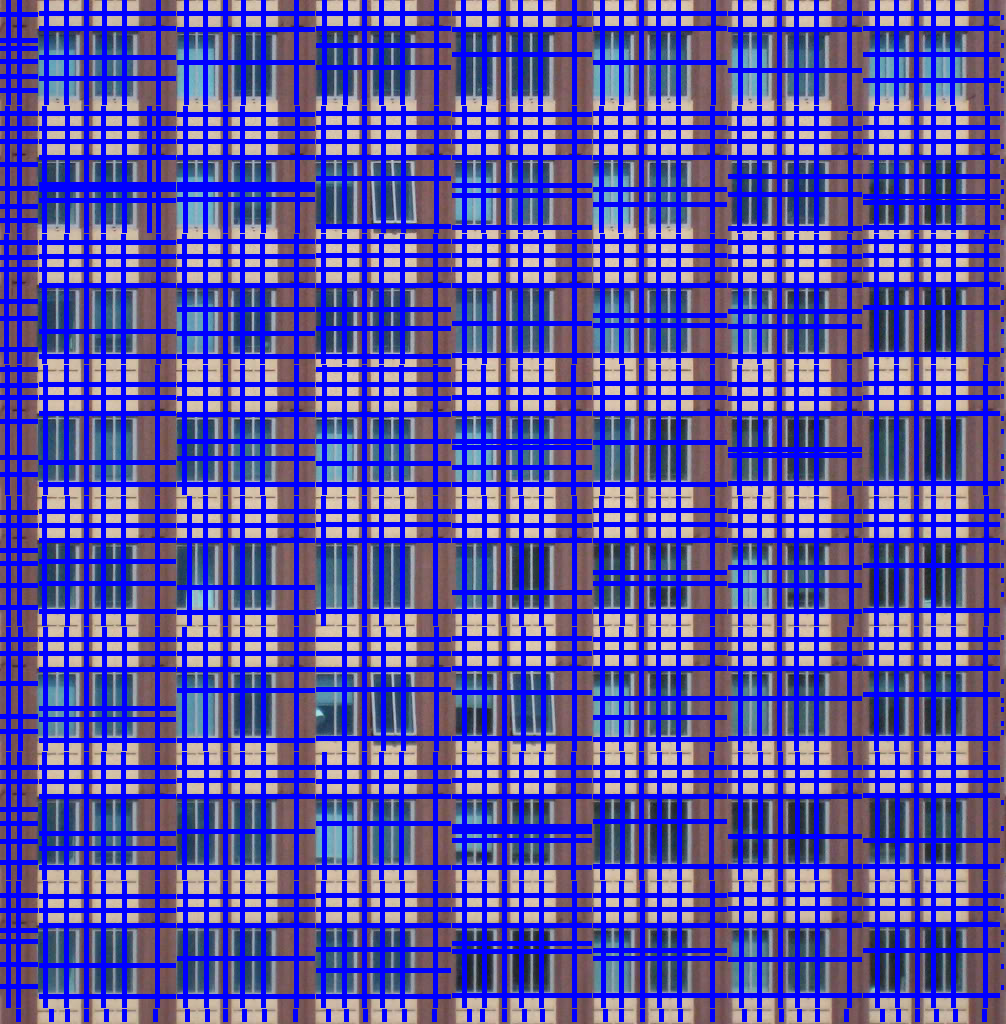
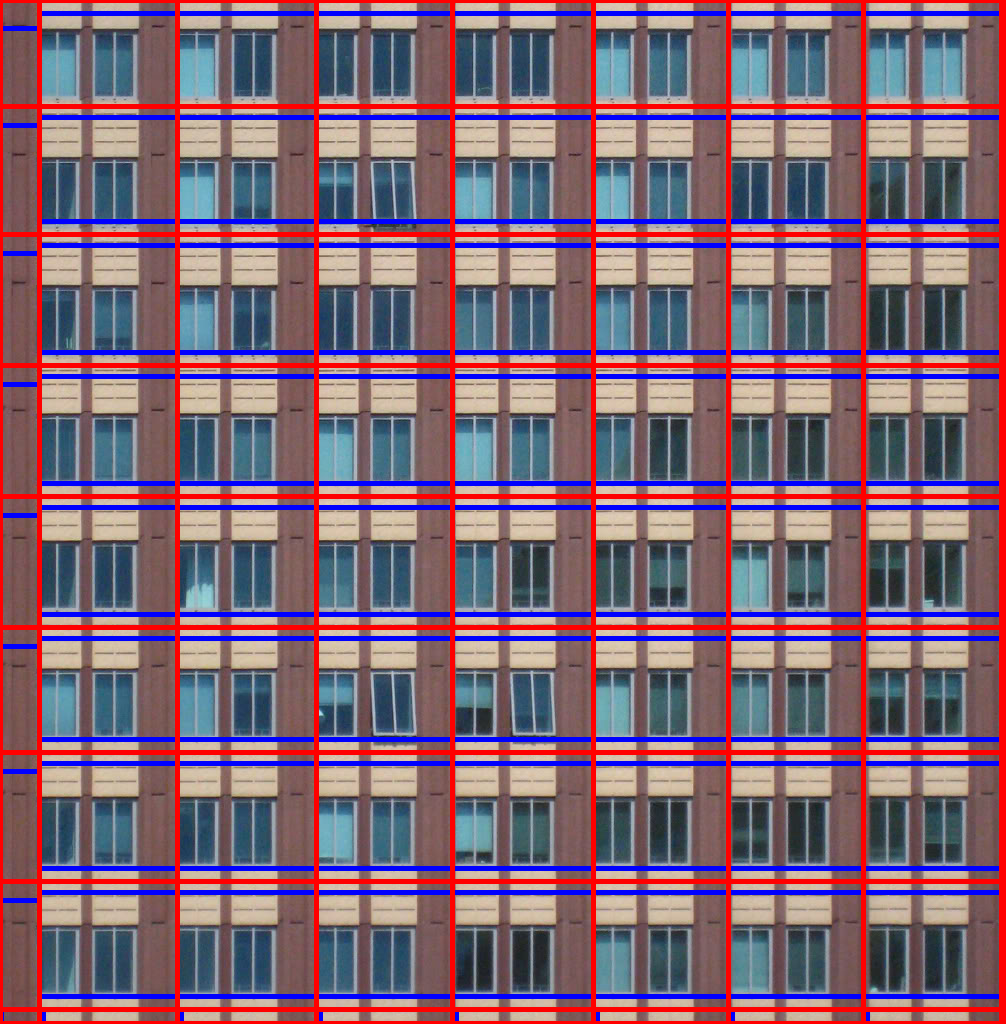
updating Test5

diff --git a/Test5/main.cpp b/Test5/main.cpp
@@ -10,11 +10,23 @@
 #include <iostream>
 #include <fstream>
 #include <algorithm>
+#include <iterator>
 #include <opencv2/opencv.hpp>
 #include "CVUtils.h"
 #include "Utils.h"
 
 using namespace std;
+
+class SubdivisionVote {
+public:
+	int dir;
+	int type;
+	int dist;
+
+public:
+	SubdivisionVote() : dir(0), type(0), dist(0) {}
+	SubdivisionVote(int dir, int type, int dist) : dir(dir), type(type), dist(dist) {}
+};
 
 void outputFacadeStructureV(const cv::Mat& img, const cv::Mat_<float>& S_max, const cv::Mat_<float>& h_max, const vector<vector<int>>& y_set, const string& filename) {
 	float S_max_max = cvutils::max(S_max);
@@ -696,7 +708,7 @@ void computeVerAndHor(const cv::Mat& img, cv::Mat_<float>& Ver, cv::Mat_<float>&
 	// compute Ver(y) and Hor(x) according to Equation (4)
 	Ver = cv::Mat_<float>(grayImg.rows, 1, 0.0f);
 	Hor = cv::Mat_<float>(1, grayImg.cols, 0.0f);
-	float sigma = 3.0f;// 50.0f;
+	float sigma = 5.0f;// 50.0f;
 	float beta = 0.1f;
 	for (int r = 0; r < grayImg.rows; ++r) {
 		for (int rr = 0; rr < grayImg.rows; ++rr) {
@@ -710,18 +722,12 @@ void computeVerAndHor(const cv::Mat& img, cv::Mat_<float>& Ver, cv::Mat_<float>&
 	}
 }
 
-void subdivideTile(cv::Mat& tile) {
+bool subdivideTile(cv::Mat& tile, int& dir, int& type, int& dist) {
 	cv::imwrite("tile.png", tile);
 
 	cv::Mat_<float> Ver;
 	cv::Mat_<float> Hor;
 	computeVerAndHor(tile, Ver, Hor);
-
-	ofstream out("Hor.txt");
-	for (int i = 0; i < Hor.cols; ++i) {
-		out << Hor(0, i) << endl;
-	}
-	out.close();
 
 	// visualize Ver(y) and Hor(x)
 	outputTileStructure(tile, Ver, Hor, "tile2.png");
@@ -741,52 +747,56 @@ void subdivideTile(cv::Mat& tile) {
 		}
 	}
 
-	//find the split closest to the boundary
-	int min_x_dist;
-	int min_x_index;
-	if (x_set[0] < tile.cols - x_set.back() - 1) {
-		min_x_dist = x_set[0];
-		min_x_index = 0;
+	// find the split closest to the boundary for each direction, x and y.
+	int min_x_dist = numeric_limits<int>::max();
+	int min_x_index = -1;
+	if (x_set.size() > 0) {
+		if (x_set[0] < tile.cols - x_set.back() - 1) {
+			min_x_dist = x_set[0];
+			min_x_index = 0;
+		}
+		else {
+			min_x_dist = tile.cols - x_set.back() - 1;
+			min_x_index = x_set.size() - 1;
+		}
 	}
-	else {
-		min_x_dist = tile.cols - x_set.back() - 1;
-		min_x_index = x_set.size() - 1;
+	int min_y_dist = numeric_limits<int>::max();
+	int min_y_index = -1;
+	if (y_set.size() > 0) {
+		if (y_set[0] < tile.rows - y_set.back() - 1) {
+			min_y_dist = y_set[0];
+			min_y_index = 0;
+		}
+		else {
+			min_y_dist = tile.rows - y_set.back() - 1;
+			min_y_index = y_set.size() - 1;
+		}
 	}
-	int min_y_dist;
-	int min_y_index;
-	if (y_set[0] < tile.rows - y_set.back() - 1) {
-		min_y_dist = y_set[0];
-		min_y_index = 0;
-	}
-	else {
-		min_y_dist = tile.rows - y_set.back() - 1;
-		min_y_index = y_set.size() - 1;
-	}
-	int min_dist;
-	int min_index;
-	int dir = 0;	// 0 -- x / 1 -- y
-	int type = 0;	// 0 -- single / 1 -- dual
+
+	// find the split closest to the boundary 
+	dist = numeric_limits<int>::max();
+	int min_index = -1;
+	dir = 0;	// 0 -- x / 1 -- y
+	type = 0;	// 0 -- single / 1 -- dual
 	if (min_x_dist < min_y_dist) {
-		min_dist = min_x_dist;
+		dist = min_x_dist;
 		min_index = min_x_index;
 		dir = 0;
 	}
 	else {
-		min_dist = min_y_dist;
+		dist = min_y_dist;
 		min_index = min_y_index;
 		dir = 1;
 	}
 
 	// find the dual correspondence
-	int min_index2;
 	if (dir == 0) {
 		for (int i = 0; i < x_set.size(); ++i) {
 			if (i == min_index) continue;
 
-			int dist = min(x_set[i], tile.cols - x_set[i] - 1);
-			if (abs(dist - min_dist) < 3 && abs(x_set[i] - x_set[min_index]) > 3) {
+			int d = min(x_set[i], tile.cols - x_set[i] - 1);
+			if (abs(d - dist) < 3 && abs(x_set[i] - x_set[min_index]) > 3) {
 				type = 1;
-				min_index2 = i;
 				break;
 			}
 		}
@@ -795,27 +805,140 @@ void subdivideTile(cv::Mat& tile) {
 		for (int i = 0; i < y_set.size(); ++i) {
 			if (i == min_index) continue;
 
-			int dist = min(y_set[i], tile.rows - y_set[i] - 1);
-			if (abs(dist - min_dist) < 3 && abs(y_set[i] - y_set[min_index]) > 3) {
+			int d = min(y_set[i], tile.rows - y_set[i] - 1);
+			if (abs(d - dist) < 3 && abs(y_set[i] - y_set[min_index]) > 3) {
 				type = 1;
-				min_index2 = i;
 				break;
 			}
 		}
 	}
 
+	/*
 	// visualize the split lines
-	if (dir == 0) {
-		cv::line(tile, cv::Point(x_set[min_index], 0), cv::Point(x_set[min_index], tile.rows - 1), cv::Scalar(255, 0, 0), 3);
-	}
-	else {
-		cv::line(tile, cv::Point(0, y_set[min_index]), cv::Point(tile.cols - 1, y_set[min_index]), cv::Scalar(255, 0, 0), 3);
+	if (min_index >= 0) {
+		if (dir == 0) {
+			cv::line(tile, cv::Point(dist, 0), cv::Point(dist, tile.rows - 1), cv::Scalar(255, 0, 0), 3);
+			if (type == 1) {
+				cv::line(tile, cv::Point(tile.cols - 1 - dist, 0), cv::Point(tile.cols - 1 - dist, tile.rows - 1), cv::Scalar(255, 0, 0), 3);
+			}
+		}
+		else {
+			cv::line(tile, cv::Point(0, dist), cv::Point(tile.cols - 1, dist), cv::Scalar(255, 0, 0), 3);
+			if (type == 1) {
+				cv::line(tile, cv::Point(0, tile.rows - 1 - dist), cv::Point(tile.cols - 1, tile.rows - 1 - dist), cv::Scalar(255, 0, 0), 3);
+			}
+		}
 	}
 
 	cv::imwrite("tile3.png", tile);
+	*/
+
+	if (min_index >= 0) return true;
+	else return false;
 }
 
 void subdivideFacadeTiles(cv::Mat& img, vector<vector<int>>& y_set, vector<vector<int>>& x_set) {
+	vector<vector<vector<SubdivisionVote>>> votes(y_set.size());
+
+	for (int i = 0; i < y_set.size(); ++i) {
+		for (int j = 0; j < y_set[i].size() - 1; ++j) {
+			int y1 = y_set[i][j];
+			int y2 = y_set[i][j + 1];
+
+			votes[i].resize(x_set.size());
+			for (int k = 0; k < x_set.size(); ++k) {
+				for (int l = 0; l < x_set[k].size() - 1; ++l) {
+					int x1 = x_set[k][l];
+					int x2 = x_set[k][l + 1];
+
+					cv::Mat tile(img, cv::Rect(x1, y1, x2 - x1 - 1, y2 - y1 - 1));
+					int dir, type, dist;
+					if (subdivideTile(tile, dir, type, dist)) {
+						votes[i][k].push_back(SubdivisionVote(dir, type, dist));
+					}
+				}
+			}
+		}
+	}
+
+	// choose the maximum vote for each type of tile
+	vector<vector<SubdivisionVote>> max_votes(votes.size());
+	for (int i = 0; i < votes.size(); ++i) {
+		max_votes[i].resize(votes[i].size());
+
+		for (int j = 0; j < votes[i].size(); ++j) {
+			// choose dir, x or y.
+			int x_cnt = 0;
+			int y_cnt = 0;
+			for (int s = 0; s < votes[i][j].size(); ++s) {
+				if (votes[i][j][s].dir == 0) {
+					x_cnt++;
+				}
+				else {
+					y_cnt++;
+				}
+			}
+
+			// find the maximum vote
+			float sigma = 5.0f;
+			if (x_cnt == 0 && y_cnt == 0) {
+				max_votes[i][j] = SubdivisionVote(-1, 0, 0);
+			}
+			else if (x_cnt > y_cnt) {
+				vector<float> histogram(x_set[j][1] - x_set[j][0], 0.0f);
+
+				for (int s = 0; s < votes[i][j].size(); ++s) {
+					if (votes[i][j][s].dir != 0) continue;
+
+					for (int c = 0; c < x_set[j][1] - x_set[j][0]; ++c) {
+						histogram[c] += utils::gause(c - votes[i][j][s].dist, sigma);
+					}
+				}
+
+				int dist = distance(histogram.begin(), max_element(histogram.begin(), histogram.end()));
+
+				// select the type
+				int type;
+				int min_dist = numeric_limits<int>::max();
+				for (int s = 0; s < votes[i][j].size(); ++s) {
+					int d = abs(votes[i][j][s].dist - dist);
+					if (d < min_dist) {
+						min_dist = d;
+						type = votes[i][j][s].type;
+					}
+				}
+
+				max_votes[i][j] = SubdivisionVote(0, type, dist);
+			}
+			else {
+				vector<float> histogram(y_set[j][1] - y_set[j][0], 0.0f);
+
+				for (int s = 0; s < votes[i][j].size(); ++s) {
+					if (votes[i][j][s].dir != 1) continue;
+
+					for (int r = 0; r < y_set[j][1] - y_set[j][0]; ++r) {
+						histogram[r] += utils::gause(r - votes[i][j][s].dist, sigma);
+					}
+				}
+
+				int dist = distance(histogram.begin(), max_element(histogram.begin(), histogram.end()));
+
+				// select the type
+				int type;
+				int min_dist = numeric_limits<int>::max();
+				for (int s = 0; s < votes[i][j].size(); ++s) {
+					int d = abs(votes[i][j][s].dist - dist);
+					if (d < min_dist) {
+						min_dist = d;
+						type = votes[i][j][s].type;
+					}
+				}
+
+				max_votes[i][j] = SubdivisionVote(1, type, dist);
+			}
+		}
+	}
+
 	for (int i = 0; i < y_set.size(); ++i) {
 		for (int j = 0; j < y_set[i].size() - 1; ++j) {
 			int y1 = y_set[i][j];
@@ -827,9 +950,32 @@ void subdivideFacadeTiles(cv::Mat& img, vector<vector<int>>& y_set, vector<vecto
 					int x2 = x_set[k][l + 1];
 
 					cv::Mat tile(img, cv::Rect(x1, y1, x2 - x1 - 1, y2 - y1 - 1));
-					subdivideTile(tile);
+
+					if (max_votes[i][k].dir == 0) {
+						cv::line(tile, cv::Point(max_votes[i][k].dist, 0), cv::Point(max_votes[i][k].dist, tile.rows - 1), cv::Scalar(255, 0, 0), 3);
+						if (max_votes[i][k].type == 1) {
+							cv::line(tile, cv::Point(tile.cols - 1 - max_votes[i][k].dist, 0), cv::Point(tile.cols - 1 - max_votes[i][k].dist, tile.rows - 1), cv::Scalar(255, 0, 0), 3);
+						}
+					}
+					else {
+						cv::line(tile, cv::Point(0, max_votes[i][k].dist), cv::Point(tile.cols - 1, max_votes[i][k].dist), cv::Scalar(255, 0, 0), 3);
+						if (max_votes[i][k].type == 1) {
+							cv::line(tile, cv::Point(0, tile.rows - 1 - max_votes[i][k].dist), cv::Point(tile.cols - 1, tile.rows - 1 - max_votes[i][k].dist), cv::Scalar(255, 0, 0), 3);
+						}
+					}
 				}
 			}
+		}
+	}
+
+	for (int i = 0; i < y_set.size(); ++i) {
+		for (int j = 0; j < y_set[i].size(); ++j) {
+			cv::line(img, cv::Point(0, y_set[i][j]), cv::Point(img.cols - 1, y_set[i][j]), cv::Scalar(0, 0, 255), 3);
+		}
+	}
+	for (int i = 0; i < x_set.size(); ++i) {
+		for (int j = 0; j < x_set[i].size(); ++j) {
+			cv::line(img, cv::Point(x_set[i][j], 0), cv::Point(x_set[i][j], img.rows - 1), cv::Scalar(0, 0, 255), 3);
 		}
 	}
 }
